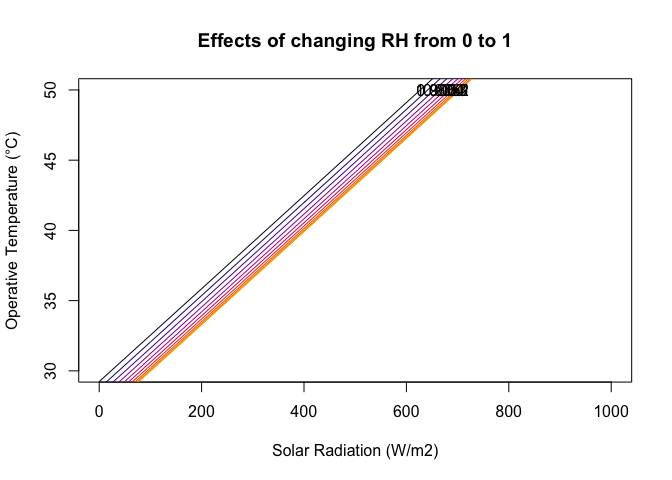
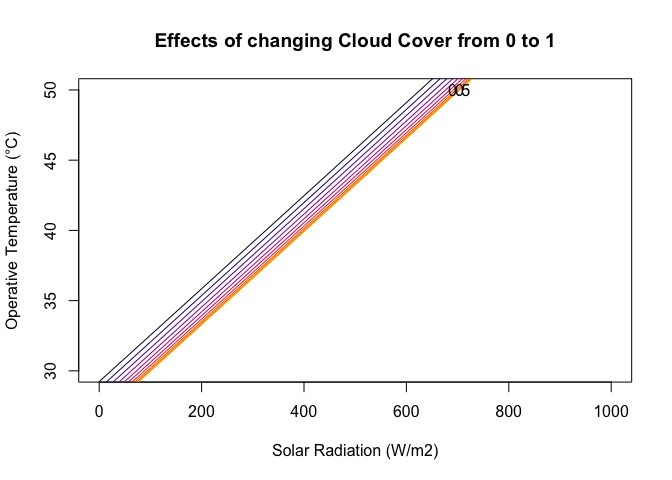
readme fix

Changed region(s): [[0.2188, 0.0625, 0.8438, 0.125], [0.625, 0.1562, 0.7188, 0.2188]]

diff --git a/README.md b/README.md
@@ -147,7 +147,7 @@ cbind(unlist(cams$Dates))
 
     ##                          [,1]                 
     ## FileModificationDateTime "2017-12-01 16:00:29"
-    ## FileAccessDateTime       "2017-12-01 16:34:10"
+    ## FileAccessDateTime       "2017-12-01 16:37:13"
     ## FileInodeChangeDateTime  "2017-12-01 16:00:30"
     ## ModifyDate               "2013-05-09 16:22:23"
     ## CreateDate               "2013-05-09 16:22:23"
@@ -662,12 +662,12 @@ head(d)
 ```
 
     ##         Ta       Ts       Tg       SE  RH rho cloud   A V   L     c     n
-    ## 1 17.84153 24.00606 22.72464 403.5626 0.5 0.1     0 0.4 1 0.1 0.174 0.618
-    ## 2 35.38449 41.09819 40.02220 383.2820 0.5 0.1     0 0.4 1 0.1 0.174 0.618
-    ## 3 20.60861 24.94641 25.14106 374.5831 0.5 0.1     0 0.4 1 0.1 0.174 0.618
-    ## 4 39.61975 45.08977 45.42099 479.4410 0.5 0.1     0 0.4 1 0.1 0.174 0.618
-    ## 5 19.10523 24.19437 24.70869 463.0959 0.5 0.1     0 0.4 1 0.1 0.174 0.618
-    ## 6 31.98653 37.95331 36.38116 363.1921 0.5 0.1     0 0.4 1 0.1 0.174 0.618
+    ## 1 36.87923 42.63754 41.27077 362.9369 0.5 0.1     0 0.4 1 0.1 0.174 0.618
+    ## 2 39.87661 44.97994 44.90410 415.4954 0.5 0.1     0 0.4 1 0.1 0.174 0.618
+    ## 3 19.32613 25.21794 24.82485 454.4400 0.5 0.1     0 0.4 1 0.1 0.174 0.618
+    ## 4 11.85817 18.32605 16.81432 409.5991 0.5 0.1     0 0.4 1 0.1 0.174 0.618
+    ## 5 25.22520 30.11488 29.90814 387.0201 0.5 0.1     0 0.4 1 0.1 0.174 0.618
+    ## 6 11.28694 17.70613 16.32779 416.5998 0.5 0.1     0 0.4 1 0.1 0.174 0.618
     ##   a    b    m   type     shape
     ## 1 1 0.58 0.25 forced hcylinder
     ## 2 1 0.58 0.25 forced hcylinder
@@ -847,25 +847,25 @@ Ideally, you have all parameters estimated or measured and put into a data frame
 (qrad.A<-with(d, qrad(Ts, Ta, Tg, RH, E=0.96, rho, cloud, SE))) 
 ```
 
-    ##  [1] 287.1415 269.2200 270.1493 361.6981 348.6473 248.6989 321.7766
-    ##  [8] 340.9431 277.6215 368.1519 283.7544 311.8063 255.8549 328.8911
-    ## [15] 351.5504 204.1248 309.7747 283.0709 302.1023 270.3380
+    ##  [1] 249.8587 304.1231 335.9145 292.6188 278.1631 299.5668 310.7280
+    ##  [8] 345.3910 267.4184 313.5845 294.2187 259.2544 384.5687 228.1079
+    ## [15] 300.6688 255.2109 288.9672 327.8476 293.1420 264.5992
 
 ``` r
 (qconv.free.A<-with(d, qconv(Ts, Ta, V, L, c, n, a, b, m, type="free", shape)))
 ```
 
-    ##  [1] -26.51296 -23.93387 -17.06298 -22.63562 -20.84986 -25.29570 -22.55108
-    ##  [8] -21.18555 -17.13858 -20.55077 -21.06932 -13.26935 -25.54603 -26.79265
-    ## [15] -16.46070 -22.09763 -19.86302 -21.98124 -21.99034 -19.00279
+    ##  [1] -24.15621 -20.75355 -25.03569 -28.25077 -19.77598 -27.99515 -20.22673
+    ##  [8] -19.57064 -23.24829 -25.08386 -20.15843 -18.53158 -24.02765 -17.98705
+    ## [15] -24.73423 -25.85645 -13.69214 -19.83076 -29.74980 -11.75809
 
 ``` r
 (qconv.forced.A<-with(d, qconv(Ts, Ta, V, L,  c, n, a, b, m, type, shape)))
 ```
 
-    ##  [1] -63.45385 -57.66882 -44.49712 -54.98687 -52.30130 -60.42979 -55.32497
-    ##  [8] -52.65154 -44.95548 -51.65151 -52.11754 -36.09590 -61.37741 -63.06462
-    ## [15] -43.59116 -55.06862 -50.30790 -54.36676 -54.71693 -48.17084
+    ##  [1] -58.03466 -51.28865 -60.53374 -67.10769 -49.88601 -66.65553 -50.84114
+    ##  [8] -49.68084 -57.13285 -60.45696 -50.55292 -47.61750 -57.33390 -46.13380
+    ## [15] -58.38185 -61.52911 -36.96595 -50.06330 -69.67284 -32.83403
 
 ``` r
 qtotal<-A*(qrad.A + qconv.forced.A) # Multiply by area to obtain heat exchange in Watts
@@ -875,19 +875,19 @@ head(d)
 ```
 
     ##         Ta       Ts       Tg       SE  RH rho cloud   A V   L     c     n
-    ## 1 17.84153 24.00606 22.72464 403.5626 0.5 0.1     0 0.4 1 0.1 0.174 0.618
-    ## 2 35.38449 41.09819 40.02220 383.2820 0.5 0.1     0 0.4 1 0.1 0.174 0.618
-    ## 3 20.60861 24.94641 25.14106 374.5831 0.5 0.1     0 0.4 1 0.1 0.174 0.618
-    ## 4 39.61975 45.08977 45.42099 479.4410 0.5 0.1     0 0.4 1 0.1 0.174 0.618
-    ## 5 19.10523 24.19437 24.70869 463.0959 0.5 0.1     0 0.4 1 0.1 0.174 0.618
-    ## 6 31.98653 37.95331 36.38116 363.1921 0.5 0.1     0 0.4 1 0.1 0.174 0.618
+    ## 1 36.87923 42.63754 41.27077 362.9369 0.5 0.1     0 0.4 1 0.1 0.174 0.618
+    ## 2 39.87661 44.97994 44.90410 415.4954 0.5 0.1     0 0.4 1 0.1 0.174 0.618
+    ## 3 19.32613 25.21794 24.82485 454.4400 0.5 0.1     0 0.4 1 0.1 0.174 0.618
+    ## 4 11.85817 18.32605 16.81432 409.5991 0.5 0.1     0 0.4 1 0.1 0.174 0.618
+    ## 5 25.22520 30.11488 29.90814 387.0201 0.5 0.1     0 0.4 1 0.1 0.174 0.618
+    ## 6 11.28694 17.70613 16.32779 416.5998 0.5 0.1     0 0.4 1 0.1 0.174 0.618
     ##   a    b    m   type     shape      qrad     qconv    qtotal
-    ## 1 1 0.58 0.25 forced hcylinder 114.85661 -25.38154  89.47507
-    ## 2 1 0.58 0.25 forced hcylinder 107.68798 -23.06753  84.62045
-    ## 3 1 0.58 0.25 forced hcylinder 108.05973 -17.79885  90.26088
-    ## 4 1 0.58 0.25 forced hcylinder 144.67924 -21.99475 122.68450
-    ## 5 1 0.58 0.25 forced hcylinder 139.45891 -20.92052 118.53839
-    ## 6 1 0.58 0.25 forced hcylinder  99.47958 -24.17192  75.30766
+    ## 1 1 0.58 0.25 forced hcylinder  99.94348 -23.21386  76.72961
+    ## 2 1 0.58 0.25 forced hcylinder 121.64923 -20.51546 101.13377
+    ## 3 1 0.58 0.25 forced hcylinder 134.36579 -24.21350 110.15229
+    ## 4 1 0.58 0.25 forced hcylinder 117.04753 -26.84307  90.20446
+    ## 5 1 0.58 0.25 forced hcylinder 111.26523 -19.95440  91.31082
+    ## 6 1 0.58 0.25 forced hcylinder 119.82673 -26.66221  93.16451
 
 ### Test the equations out for consistency
 
@@ -1078,14 +1078,14 @@ for(cloud in seq(0, 1, 0.1)){
            L=0.1, type="forced", shape="hcylinder")
   Toperative<-cbind(Toperative, temp)
 }
-cloud<-seq(0, 1, 0.1)
+cloud<-seq(0, 1, 0.5)
 Toperative<-data.frame(SE=seq(0,1100,100), Toperative)
-colnames(Toperative)<-c("SE", seq(0,1,0.1))
+colnames(Toperative)<-c("SE", seq(0,1,0.5))
 matplot(Toperative$SE, Toperative[,-1], ylim=c(30, 50), type="l", xlim=c(0,1000),
-        main="Effects of changing RH from 0 to 1",
+        main="Effects of changing Cloud Cover from 0 to 1",
         ylab="Operative Temperature (°C)", xlab="Solar Radiation (W/m2)", lty=1,
         col=flirpal[rev(seq(1,380,35))])
-for(i in 2:12){
+for(i in 2:3){
   ymax<-par()$yaxp[2]
   xmax<-par()$xaxp[2]  
   x<-Toperative[,1]; y<-Toperative[,i]
